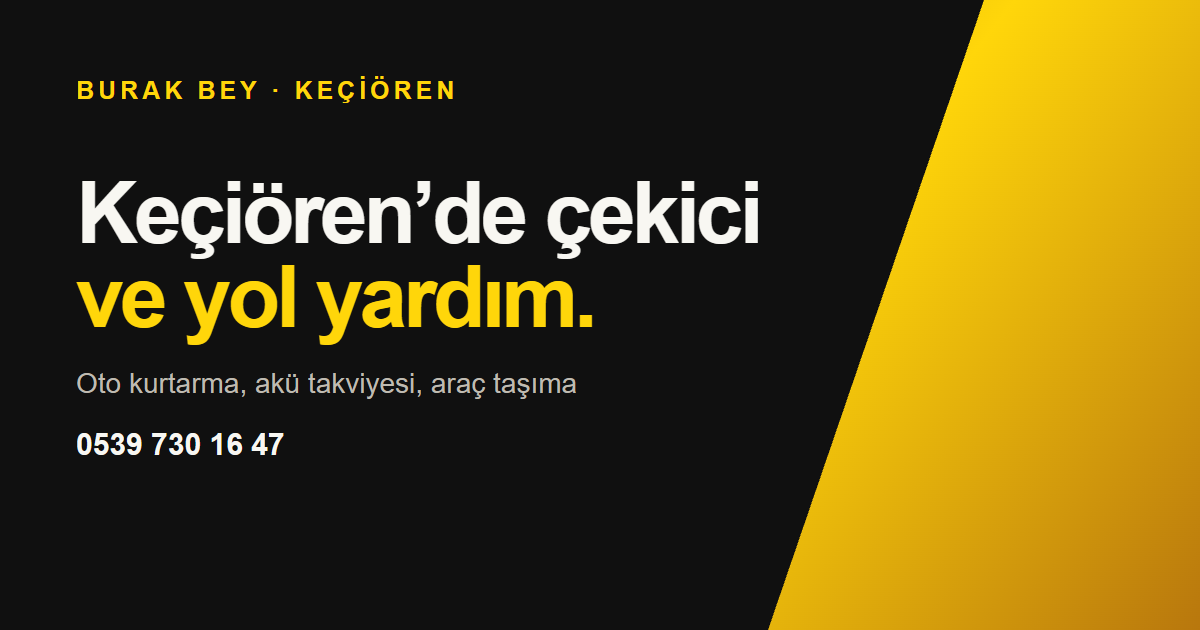
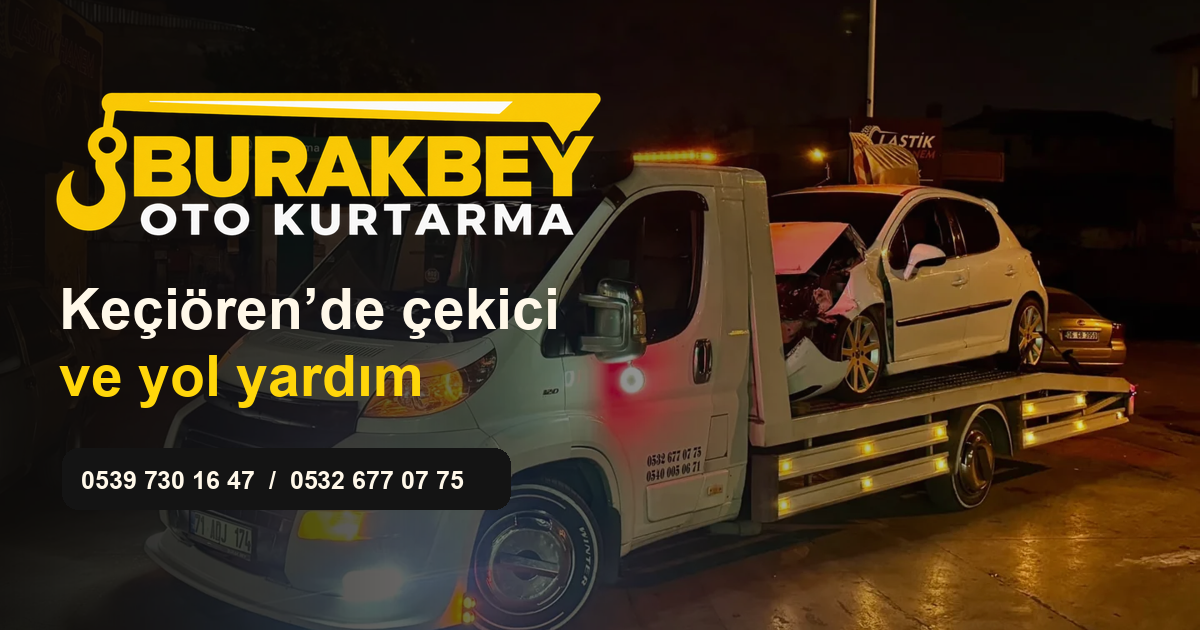
Use Burakbey branding, towing photos, and second phone

diff --git a/src/home-page.tsx b/src/home-page.tsx
@@ -1,13 +1,15 @@
 import React, { useRef, useState } from 'react';
 import { tr } from './content/tr';
 import { site } from './site';
-import { ContactActions, Icon, MapPanel, phoneHref, ServiceIcon } from './site-parts';
+import { JobPhoto } from './photos';
+import { ContactActions, Icon, MapPanel, phoneHref, secondaryPhoneHref, ServiceIcon } from './site-parts';
 
 const scenarios = [
-  { service: tr.services[0], photo: 'flatbed-car.webp', alt: 'Platform çekicide taşınan bir otomobil', width: 900, height: 600 },
-  { service: tr.services[2], photo: 'battery-assist.webp', alt: 'Kabloları bağlı bir otomobil aküsünün yakın görünümü', width: 900, height: 600 },
-  { service: tr.services[4], photo: 'motorcycle-transport.webp', alt: 'Taşıma römorkuna kayışlarla sabitlenmiş bir motosiklet', width: 960, height: 637 }
+  { service: tr.services[0], photo: 'coupe' },
+  { service: tr.services[3], photo: 'panelVan' },
+  { service: tr.services[5], photo: 'ambulance' }
 ] as const;
+const gallery = ['rainyStreet', 'yellowVan', 'dusk', 'minibus', 'rainyAngle', 'lightCommercial'] as const;
 const highlights = [
   [tr.services[0], 'Arızalı araç taşıma'],
   [tr.services[1], 'Konuma göre destek'],
@@ -36,10 +38,10 @@ function ServiceShowcase() {
         startX.current = null;
       }}>
         <div className="showcase-photos">
-          {photos.map(({ service: item, photo, alt, width, height }, index) => {
+          {photos.map(({ service: item, photo }, index) => {
             const active = index === 1;
             return <div key={item.id} className={active ? 'showcase-photo is-active' : 'showcase-photo'} aria-hidden={active ? undefined : true}>
-              <img src={'/images/' + photo} alt={active ? alt : ''} width={width} height={height} loading="lazy" decoding="async" draggable={false} />
+              <JobPhoto name={photo} decorative={!active} />
             </div>;
           })}
         </div>
@@ -53,11 +55,6 @@ function ServiceShowcase() {
       <div className="showcase-controls" role="group" aria-label="Vitrindeki hizmetler">
         {scenarios.map(({ service: item }, index) => <button key={item.id} type="button" onClick={() => select(index)} aria-pressed={index === selected}>{item.title}</button>)}
       </div>
-      <details className="photo-credit">
-        <summary>Temsili fotoğrafların kaynakları</summary>
-        <p>Çekici: <a href="https://unsplash.com/photos/HZ_6ktzQWZ0">fr0ggy5</a>. Oto kurtarma: <a href="https://unsplash.com/photos/iJGax56o5yU">Ali Ananta</a>. Akü: <a href="https://unsplash.com/photos/E4Oz0TZUDe8">Wesley Tingey</a>. Bu üç fotoğraf <a href="https://unsplash.com/license">Unsplash Lisansı</a> kapsamında kullanılmıştır.</p>
-        <p>Motosiklet taşıma: <a href="https://commons.wikimedia.org/wiki/File:Open_motorcycle_trailer_with_motorcycle.jpg">Jeffrey M Dean, Wikimedia Commons</a>. WebP sürümü <a href="https://creativecommons.org/licenses/by-sa/3.0/">CC BY-SA 3.0</a> lisansıyla sunulur.</p>
-      </details>
     </div>
   </section>;
 }
@@ -74,7 +71,7 @@ export function HomePage() {
         </div>
         <div className="hero-visual">
           <div className="hero-art">
-            <img src="/images/hero-tow.webp" srcSet="/images/hero-tow-mobile.webp 900w, /images/hero-tow.webp 2000w" sizes="(max-width: 760px) 100vw, 54vw" alt="Yolda otomobil taşıyan platform çekici" width="2000" height="1145" fetchPriority="high" />
+            <img src="/images/gece-oto-kurtarma.webp" srcSet="/images/gece-oto-kurtarma-mobile.webp 720w, /images/gece-oto-kurtarma.webp 1440w" sizes="(max-width: 760px) min(495px, calc(100vw - 36px)), min(623px, 52vw)" alt="Gece hasarlı beyaz otomobil taşıyan Burakbey çekicisi" width="1440" height="1080" fetchPriority="high" />
           </div>
           <a className="hero-call-card" href={phoneHref} data-event="click_phone" data-location="hero-card">
             <span className="call-icon"><Icon name="phone" /></span>
@@ -90,7 +87,7 @@ export function HomePage() {
     </section>
     <ServiceShowcase />
     <section className="home-process wrap" id="surec">
-      <div className="process-visual" aria-hidden="true"><Icon name="location" /><Icon name="car" /><Icon name="phone" /></div>
+      <div className="process-visual"><JobPhoto name="nightTransport" /></div>
       <div>
         <p className="eyebrow">Yol yardım süreci</p><h2>Yardım isterken <em>neyi paylaşmalısınız?</em></h2>
         <p>Bulunduğunuz yeri, araç türünü ve yaşadığınız sorunu anlatın. Taşıma gerekiyorsa varış noktasını da belirtin.</p>
@@ -112,10 +109,17 @@ export function HomePage() {
           <p className="eyebrow">İletişim</p><h2>Keçiören’de <em>Burak Bey’e ulaşın.</em></h2>
           <p>{site.city} ve aracınıza uygun yardım seçeneği için doğrudan iletişime geçin.</p>
           <ContactActions location="home-contact" />
+          <a className="text-link backup-line" href={secondaryPhoneHref} data-event="click_phone" data-location="home-contact-secondary"><Icon name="phone" /> İkinci telefon · {site.secondaryPhoneDisplay}</a>
           <a className="text-link" href="/iletisim/">İletişim bilgileri <Icon name="arrow" /></a>
         </div>
         <MapPanel />
       </div>
+    </section>
+    <section className="photo-gallery wrap" aria-labelledby="gallery-title">
+      <h2 id="gallery-title">Çekici <em>galerisi</em></h2>
+      <ul className="photo-gallery-track" tabIndex={0} aria-labelledby="gallery-title">
+        {gallery.map((name) => <li key={name}><JobPhoto name={name} /></li>)}
+      </ul>
     </section>
   </>;
 }

diff --git a/src/home.css b/src/home.css
@@ -27,7 +27,7 @@
   border: 1px solid #ffe5669c; border-radius: 23px; overflow: hidden;
   background: var(--surface); box-shadow: 0 24px 70px #100e0b85;
 }
-.hero-art img { display: block; width: 100%; height: 100%; object-fit: cover; }
+.hero-art img { display: block; width: 100%; height: 100%; object-fit: cover; object-position: center 79%; }
 .hero-art::after {
   content: ''; position: absolute; inset: 0; pointer-events: none;
   background: linear-gradient(0deg, #130f0a70, transparent 32%), linear-gradient(120deg, #e5b62a21, transparent 55%);
@@ -80,10 +80,6 @@
 }
 .showcase-photo img { display: block; width: 100%; height: 100%; object-fit: cover; }
 .showcase-photo.is-active { border-color: #ffd60a8c; opacity: 1; transform: none; filter: none; box-shadow: 0 13px 32px #0007; }
-.photo-credit { width: fit-content; max-width: 62ch; margin: 8px auto 0; color: var(--muted); font-size: .73rem; }
-.photo-credit summary { padding: 13px 5px; cursor: pointer; }
-.photo-credit p + p { margin-top: 8px; }
-.photo-credit a { text-decoration: underline; text-underline-offset: 3px; }
 .showcase-stage button { position: absolute; display: grid; place-content: center; width: 46px; height: 46px; border-radius: 50%; background: var(--surface); border: 1px solid var(--line); font-size: 1.8rem; line-height: 1; }
 .showcase-stage button:hover { color: var(--accent); border-color: var(--accent); }
 .showcase-prev { left: 0; }
@@ -101,13 +97,8 @@
 .home-checks { display: grid; gap: 8px; padding: 0; margin: 17px 0 9px; list-style: none; }
 .home-checks li { display: flex; align-items: center; gap: 8px; }
 .home-checks .icon { color: var(--accent); width: 18px; height: 18px; }
-.process-visual {
-  display: flex; align-items: center; justify-content: center; gap: 8px; min-height: clamp(145px, 25vw, 311px);
-  border-radius: 21px; border: 1px solid var(--line);
-  background: repeating-linear-gradient(125deg, transparent 0 18px, #ffd60a0e 18px 19px), radial-gradient(at center, #332c18, #111 75%);
-}
-.process-visual .icon { color: var(--accent); width: clamp(42px, 6vw, 82px); height: auto; padding: 12px; border-radius: 16px; border: 1px solid #ffd60a62; background: #141410; }
-.process-visual .icon:nth-child(2) { transform: translateY(-13px); }
+.process-visual { overflow: hidden; aspect-ratio: 1.65; border-radius: 21px; border: 1px solid var(--line); }
+.process-visual img { display: block; width: 100%; height: 100%; object-fit: cover; object-position: center 72%; }
 .home-cta { margin-bottom: clamp(48px, 7vw, 80px); }
 .cta-panel {
   display: grid; grid-template-columns: auto minmax(0, 1fr) auto; align-items: center; gap: 20px; padding: clamp(18px, 4vw, 43px);
@@ -116,6 +107,15 @@
 .cta-panel h2 { font-size: clamp(2.1rem, 4vw, 3.2rem); }
 .cta-panel p { margin-top: 8px; }
 .cta-panel .call-icon { border-radius: 50%; width: 60px; height: 60px; }
+.contact-copy .backup-line { display: flex; width: fit-content; color: var(--text); }
+.photo-gallery { padding-bottom: clamp(48px, 8vw, 96px); }
+.photo-gallery-track {
+  display: grid; grid-auto-flow: column; grid-auto-columns: min(78%, 360px); gap: 14px;
+  padding: 0 0 14px; margin: 21px 0 0; list-style: none;
+  overflow-x: auto; scroll-snap-type: x mandatory; scrollbar-color: var(--accent) var(--surface);
+}
+.photo-gallery-track li { min-width: 0; aspect-ratio: 1.32; scroll-snap-align: start; border: 1px solid var(--line); border-radius: 15px; overflow: hidden; }
+.photo-gallery-track img { display: block; width: 100%; height: 100%; object-fit: cover; object-position: center 59%; }
 @media (max-width: 1020px) {
   .quick-services { grid-template-columns: repeat(3, 1fr); }
   .quick-services a { min-height: 105px; }

diff --git a/src/interior-pages.tsx b/src/interior-pages.tsx
@@ -2,7 +2,8 @@ import type { ComponentProps } from 'react';
 import { tr } from './content/tr';
 import type { Route } from './routes';
 import { site } from './site';
-import { ContactActions, Icon, MapPanel, phoneHref, ServiceIcon } from './site-parts';
+import { JobPhoto, type PhotoName } from './photos';
+import { ContactActions, Icon, MapPanel, phoneHref, secondaryPhoneHref, ServiceIcon } from './site-parts';
 import './interior.css';
 
 type IconName = ComponentProps<typeof Icon>['name'];
@@ -26,6 +27,11 @@ const serviceDetails: Record<(typeof tr.services)[number]['id'], readonly string
 
 const requestDetails = ['Bulunduğunuz konum', 'Aracın türü ve durumu', 'Varsa taşıma için varış noktası'];
 const processIcons = ['phone', 'wrench', 'location'] as const;
+const servicePhotos: Partial<Record<(typeof tr.services)[number]['id'], PhotoName>> = {
+  'oto-kurtarma': 'coupe',
+  'kayar-sabit-kasa': 'panelVan',
+  'ozel-arac-cekici': 'ambulance'
+};
 
 function PageHeading({ route }: { route: Route }) {
   return <header className="interior-hero">
@@ -59,17 +65,20 @@ function InteriorCta({ location }: { location: string }) {
 function ServicesPage() {
   return <>
     <div className="interior-services wrap">
-      {tr.services.map((service) => <section className="interior-service" id={service.id} key={service.id} aria-labelledby={`${service.id}-title`}>
-        <div className="interior-service-copy">
-          <h2 id={`${service.id}-title`}>{service.title}</h2>
-          <p>{service.text}</p>
-          <Checklist items={serviceDetails[service.id]} />
-          <ContactActions location={`service-${service.id}`} />
-        </div>
-        <div className="interior-service-art" aria-hidden="true">
-          <span className="interior-icon"><ServiceIcon id={service.id} /></span>
-        </div>
-      </section>)}
+      {tr.services.map((service) => {
+        const photo = servicePhotos[service.id];
+        return <section className="interior-service" id={service.id} key={service.id} aria-labelledby={`${service.id}-title`}>
+          <div className="interior-service-copy">
+            <h2 id={`${service.id}-title`}>{service.title}</h2>
+            <p>{service.text}</p>
+            <Checklist items={serviceDetails[service.id]} />
+            <ContactActions location={`service-${service.id}`} />
+          </div>
+          {photo
+            ? <div className="interior-service-art service-photo"><JobPhoto name={photo} /></div>
+            : <div className="interior-service-art" aria-hidden="true"><span className="interior-icon"><ServiceIcon id={service.id} /></span></div>}
+        </section>;
+      })}
     </div>
     <InteriorCta location="services-bottom" />
   </>;
@@ -122,13 +131,20 @@ function ContactPage() {
           <dd><a href={phoneHref} data-event="click_phone" data-location="contact-details">{site.phoneDisplay}</a></dd>
         </div>
         <div>
+          <dt><span className="interior-icon"><Icon name="phone" /></span>İkinci telefon</dt>
+          <dd><a href={secondaryPhoneHref} data-event="click_phone" data-location="contact-details-secondary">{site.secondaryPhoneDisplay}</a></dd>
+        </div>
+        <div>
           <dt><span className="interior-icon"><Icon name="location" /></span>Hizmet bölgesi</dt>
           <dd>{site.city}</dd>
         </div>
       </dl>
       <ContactActions location="contact-page" />
     </div>
-    <MapPanel />
+    <div className="contact-media">
+      <JobPhoto name="storefront" />
+      <MapPanel />
+    </div>
   </section>;
 }
 

diff --git a/src/site-app.tsx b/src/site-app.tsx
@@ -5,15 +5,14 @@ import { analyticsConsent, setAnalyticsConsent, track } from './analytics';
 import { routes, type Route } from './routes';
 import { HomePage } from './home-page';
 import { InteriorPage } from './interior-pages';
-import { Icon, phoneHref, whatsappHref } from './site-parts';
+import { Icon, phoneHref, secondaryPhoneHref, whatsappHref } from './site-parts';
 import { StructuredData } from './structured-data';
 
 const navRoutes = routes.filter((route) => route.path !== '/gizlilik/');
 
 function Brand() {
   return <a className="brand" href="/">
-    <span className="brand-mark"><Icon name="beacon" /></span>
-    <span className="brand-copy"><b>BURAK BEY</b><small>KEÇİÖREN ÇEKİCİ</small></span>
+    <img src={site.logo} alt="Burakbey Oto Kurtarma" width="752" height="212" />
   </a>;
 }
 
@@ -24,6 +23,7 @@ function Footer() {
       <nav aria-label="Alt gezinme">{navRoutes.map((item) => <a key={item.path} href={item.path}>{item.label}</a>)}</nav>
       <div className="footer-contact">
         <a href={phoneHref} data-event="click_phone" data-location="footer">{site.phoneDisplay}</a>
+        <a href={secondaryPhoneHref} data-event="click_phone" data-location="footer-secondary">{site.secondaryPhoneDisplay}</a>
         <a href={whatsappHref} target="_blank" rel="noreferrer" data-event="click_whatsapp" data-location="footer">WhatsApp</a>
         <a href={site.maps} target="_blank" rel="noreferrer" data-event="click_directions" data-location="footer">Google Maps</a>
       </div>
@@ -113,6 +113,7 @@ export function App({ route }: { route: Route }) {
     <div className="sticky-contact" ref={stickyRef} inert={menuOpen}>
       <div className="sticky-options" id="sticky-options" aria-hidden={!open} inert={!open} hidden={!open}>
         <a href={phoneHref} data-event="click_phone" data-location="sticky"><Icon name="phone" /> {tr.sticky.call}</a>
+        <a href={secondaryPhoneHref} data-event="click_phone" data-location="sticky-secondary"><Icon name="phone" /> {site.secondaryPhoneDisplay}</a>
         <a href={whatsappHref} target="_blank" rel="noreferrer" data-event="click_whatsapp" data-location="sticky"><Icon name="message" /> {tr.sticky.whatsapp}</a>
         <a href={site.maps} target="_blank" rel="noreferrer" data-event="click_directions" data-location="sticky"><Icon name="location" /> {tr.sticky.directions}</a>
       </div>

diff --git a/src/interior.css b/src/interior.css
@@ -74,6 +74,8 @@
 .interior-icon svg { width: 22px; height: 22px; }
 .interior-service-art .interior-icon { width: 86px; height: 86px; border-radius: 24px; box-shadow: 0 0 40px #f5c32f16; }
 .interior-service-art svg { width: 46px; height: 46px; }
+.interior-service-art.service-photo { min-height: 0; padding: 0; overflow: hidden; }
+.service-photo img { display: block; width: 100%; height: auto; }
 .interior-checks { display: flex; flex-wrap: wrap; gap: 9px 20px; margin: 0 0 24px; padding: 0; list-style: none; }
 .interior-checks li { display: flex; align-items: center; gap: 7px; font-size: .875rem; }
 .interior-checks svg, .interior-copy h2 em { color: var(--accent); font-style: normal; }
@@ -104,6 +106,9 @@
 .interior-faq-list details[open] summary::after { content: '−'; }
 .interior-faq-list details p { margin: 0 0 16px; color: var(--muted); }
 .interior-contact { margin-bottom: clamp(40px, 8vw, 100px); }
+.contact-media { display: grid; gap: 14px; min-width: 0; }
+.contact-media > img { display: block; width: 100%; height: auto; aspect-ratio: 1.65; object-fit: cover; object-position: center 57%; border-radius: 17px; border: 1px solid var(--line); }
+.contact-media iframe { height: clamp(210px, 22vw, 270px); }
 .interior-contact-list { display: flex; flex-wrap: wrap; gap: 14px 24px; margin: 24px 0 30px; }
 .interior-contact-list > div { position: relative; display: grid; align-content: center; min-height: 46px; padding-left: 57px; }
 .interior-contact-list dt { font-size: .8rem; color: var(--muted); }

diff --git a/public/404.html b/public/404.html
@@ -1,1 +1,1 @@
-<!doctype html><html lang="tr"><meta charset="UTF-8"><meta name="viewport" content="width=device-width,initial-scale=1"><meta name="robots" content="noindex"><meta name="theme-color" content="#0b0b0b"><title>Sayfa bulunamadı | Keçiören Çekici Burak Bey</title><style>body{margin:0;background:#0b0b0b;color:#f4f2e9;font:16px Arial,sans-serif;display:grid;min-height:100vh;place-items:center;text-align:center}main{max-width:520px;padding:32px}h1{color:#ffd60a}a{color:#ffd60a}</style><main><h1>Bu sayfa bulunamadı.</h1><p>Keçiören Çekici Burak Bey ana sayfasına dönebilirsiniz.</p><a href="/">Ana sayfaya dön</a></main></html>
+<!doctype html><html lang="tr"><meta charset="UTF-8"><meta name="viewport" content="width=device-width,initial-scale=1"><meta name="robots" content="noindex"><meta name="theme-color" content="#0b0b0b"><link rel="icon" type="image/png" sizes="128x128" href="/burakbey-favicon.png"><title>Sayfa bulunamadı | Keçiören Çekici Burak Bey</title><style>body{margin:0;background:#0b0b0b;color:#f4f2e9;font:16px Arial,sans-serif;display:grid;min-height:100vh;place-items:center;text-align:center}main{max-width:520px;padding:32px}img{display:block;width:194px;height:auto;margin:0 auto 24px}h1{color:#ffd60a}a{color:#ffd60a}</style><main><img src="/burakbey-logo.webp" alt="Burakbey Oto Kurtarma" width="752" height="212"><h1>Bu sayfa bulunamadı.</h1><p>Keçiören Çekici Burak Bey ana sayfasına dönebilirsiniz.</p><a href="/">Ana sayfaya dön</a></main></html>

diff --git a/src/photos.tsx b/src/photos.tsx
@@ -1,0 +1,22 @@
+import React from 'react';
+
+const photos = {
+  storefront: ['burakbey-isletme', 'Burakbey Oto Kurtarma tabelasının önündeki beyaz çekici'],
+  panelVan: ['platform-panelvan', 'Platform çekicinin kasasında beyaz panelvan'],
+  ambulance: ['ozel-arac-ambulans', 'Platform çekicide taşınan beyaz ambulans'],
+  coupe: ['beyaz-coupe', 'Beyaz platform çekicinin kasasında beyaz otomobil'],
+  nightTransport: ['gece-kirmizi-cekici', 'Gece sokakta otomobil taşıyan kırmızı çekici'],
+  yellowVan: ['sari-panelvan', 'Beyaz çekicide taşınan sarı panelvan', 720, 960],
+  minibus: ['siyah-minibus', 'Siyah minibüs taşıyan beyaz çekici', 720, 960],
+  rainyStreet: ['yagmurlu-sokak', 'Yağmurlu sokakta koyu renk otomobil taşıyan kırmızı çekici'],
+  rainyAngle: ['kirmizi-cekici-sag', 'Islak yolda sağ önden görünen kırmızı çekici ve taşıdığı otomobil'],
+  dusk: ['aksam-arac-tasima', 'Akşamüstü otomobil taşıyan kırmızı çekici'],
+  lightCommercial: ['beyaz-hafif-ticari', 'Kırmızı çekicinin kasasında beyaz hafif ticari araç']
+} as const;
+
+export type PhotoName = keyof typeof photos;
+
+export function JobPhoto({ name, decorative = false }: { name: PhotoName; decorative?: boolean }) {
+  const [file, alt, width = 960, height = 720] = photos[name];
+  return <img src={'/images/' + file + '.webp'} alt={decorative ? '' : alt} width={width} height={height} loading="lazy" decoding="async" draggable={false} />;
+}

diff --git a/src/base.css b/src/base.css
@@ -41,12 +41,8 @@ h1 em, h2 em { color: var(--accent); font-style: normal; }
 .site-header { position: sticky; z-index: 10; top: 0; border-bottom: 1px solid var(--line); background: #0b0b0bf0; backdrop-filter: blur(14px); }
 .header-inner, .site-nav, .brand, .nav-call { display: flex; align-items: center; }
 .header-inner { justify-content: space-between; min-height: 74px; gap: 24px; }
-.brand { gap: 11px; width: max-content; white-space: nowrap; }
-.brand-mark { width: 44px; height: 44px; border-radius: 12px; display: grid; place-items: center; background: var(--accent); color: var(--accent-ink); }
-.brand-mark .icon { width: 26px; height: 26px; }
-.brand-copy { display: grid; line-height: 1; gap: 4px; }
-.brand-copy b { font: 700 1.55rem/1 var(--display); letter-spacing: .055em; }
-.brand-copy small { color: var(--muted); font-size: .59rem; font-weight: 800; letter-spacing: .12em; }
+.brand { width: fit-content; min-height: 44px; }
+.brand img { display: block; width: clamp(152px, 18vw, 196px); height: auto; }
 .site-nav { gap: clamp(16px, 2.5vw, 35px); font-size: .88rem; font-weight: 750; }
 .site-nav > a:not(.nav-call) { display: grid; place-items: center; min-height: 46px; position: relative; }
 .site-nav > a:not(.nav-call):hover, .site-nav > a[aria-current] { color: var(--accent); }

diff --git a/src/structured-data.tsx b/src/structured-data.tsx
@@ -9,10 +9,12 @@ export function StructuredData({ route }: { route: Route }) {
   const graph: object[] = [
     { '@type': 'WebSite', '@id': home + '#website', url: home, name: site.name, inLanguage: tr.languageTag },
     {
-      '@type': 'LocalBusiness', '@id': business, name: site.name, url: home, logo: site.url + '/favicon.svg',
+      '@type': 'LocalBusiness', '@id': business, name: site.name, url: home, logo: site.url + site.logo,
       telephone: site.phone, description: tr.description, hasMap: site.maps, sameAs: [site.maps],
       areaServed: { '@type': 'AdministrativeArea', name: site.city },
-      contactPoint: { '@type': 'ContactPoint', telephone: site.phone, contactType: 'customer service', availableLanguage: 'Turkish' }
+      contactPoint: [site.phone, site.secondaryPhone].map((telephone) => ({
+        '@type': 'ContactPoint', telephone, contactType: 'customer service', availableLanguage: 'Turkish'
+      }))
     }
   ];
 

diff --git a/src/site-parts.tsx b/src/site-parts.tsx
@@ -36,6 +36,7 @@ export function ServiceIcon({ id }: { id: string }) {
 }
 
 export const phoneHref = 'tel:' + site.phone;
+export const secondaryPhoneHref = 'tel:' + site.secondaryPhone;
 export const whatsappHref = 'https://wa.me/' + site.whatsapp + '?text=' + encodeURIComponent(tr.whatsappMessage);
 
 export function ContactActions({ location, primaryLabel = 'Hemen ara' }: { location: string; primaryLabel?: string }) {

diff --git a/index.html b/index.html
@@ -4,7 +4,7 @@
     <meta charset="UTF-8" />
     <meta name="viewport" content="width=device-width, initial-scale=1.0" />
     <meta name="theme-color" content="#0b0b0b" />
-    <link rel="icon" type="image/svg+xml" href="/favicon.svg" />
+    <link rel="icon" type="image/png" sizes="128x128" href="/burakbey-favicon.png" />
     <!--seo-->
   </head>
   <body>

diff --git a/src/site.ts b/src/site.ts
@@ -3,6 +3,9 @@ export const site = {
   shortName: 'Burak Bey',
   phoneDisplay: '0539 730 16 47',
   phone: '+905397301647',
+  secondaryPhoneDisplay: '0532 677 07 75',
+  secondaryPhone: '+905326770775',
+  logo: '/burakbey-logo.webp',
   whatsapp: '905397301647',
   city: 'Keçiören, Ankara',
   maps: 'https://maps.app.goo.gl/DiSzW37rddwQpg7u7',
